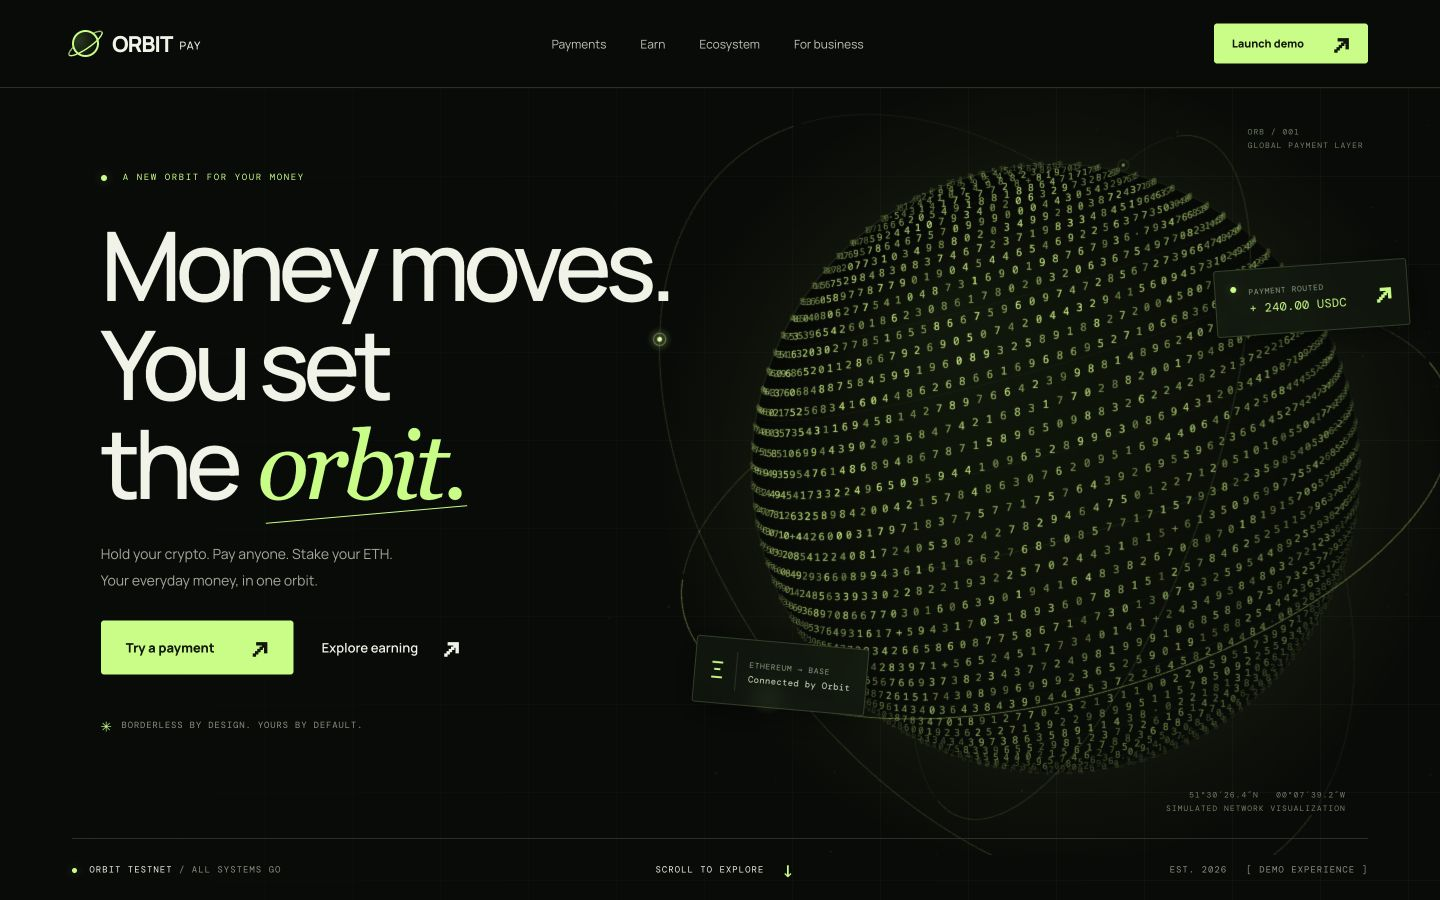
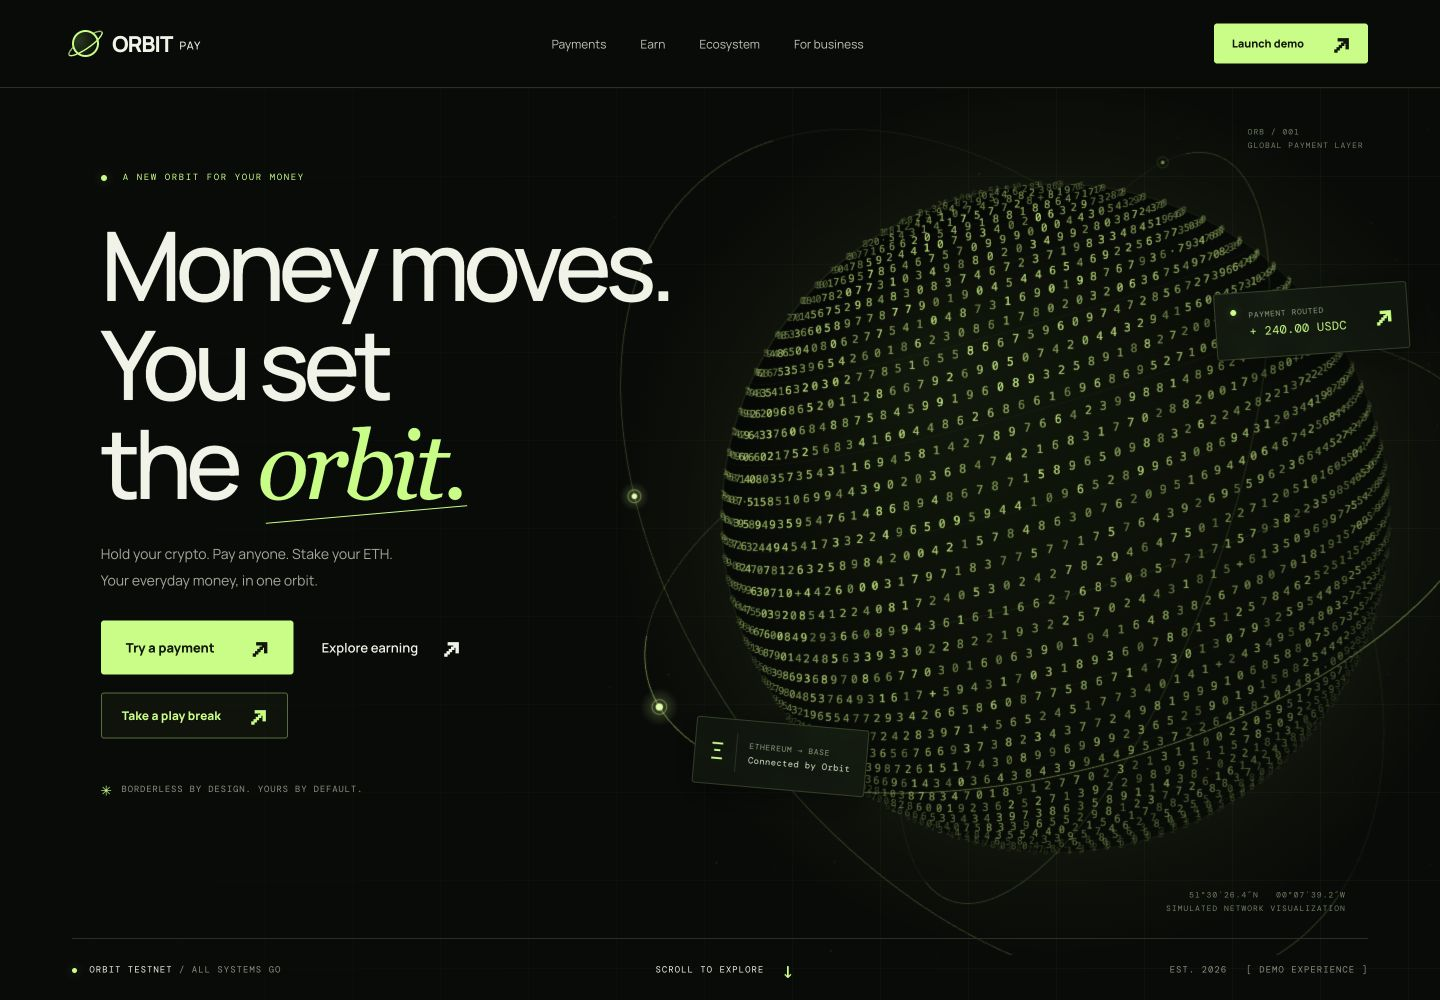
Expose Arcade in hero with pixel arrow and glyph hover response

diff --git a/dist/index.html b/dist/index.html
@@ -15,7 +15,7 @@
 <main id="main">
 <section class="hero" aria-labelledby="hero-title">
   <div class="hero-grid" aria-hidden="true"></div>
-  <div class="hero-copy"><div class="eyebrow"><span class="status-dot"></span> A NEW ORBIT FOR YOUR MONEY</div><h1 id="hero-title">Money moves.<br>You set<br> the <span class="serif-word">orbit.</span></h1><p>Hold your crypto. Pay anyone. Stake your ETH.<br>Your everyday money, in one orbit.</p><div class="hero-actions"><a class="button" href="#product">Try a payment <span>↗</span></a><a class="text-link" href="#earn">Explore earning <span>↗</span></a></div><div class="hero-note"><span class="tiny-cross">✳</span> BORDERLESS BY DESIGN. YOURS BY DEFAULT.</div></div>
+  <div class="hero-copy"><div class="eyebrow"><span class="status-dot"></span> A NEW ORBIT FOR YOUR MONEY</div><h1 id="hero-title">Money moves.<br>You set<br> the <span class="serif-word">orbit.</span></h1><p>Hold your crypto. Pay anyone. Stake your ETH.<br>Your everyday money, in one orbit.</p><div class="hero-actions"><a class="button" href="#product">Try a payment <span>↗</span></a><a class="text-link" href="#earn">Explore earning <span>↗</span></a></div><button class="button hero-play" id="hero-play" type="button" aria-haspopup="dialog" aria-controls="arcade-dialog">Take a play break <span aria-hidden="true">↗</span></button><div class="hero-note"><span class="tiny-cross">✳</span> BORDERLESS BY DESIGN. YOURS BY DEFAULT.</div></div>
   <div class="planet-stage"><div class="planet-fallback" aria-hidden="true"></div><canvas id="orbit-planet" role="img" aria-label="A rotating green digital planet with payment satellites"></canvas><span class="planet-coordinate top">ORB / 001<br>GLOBAL PAYMENT LAYER</span><div class="planet-tag tag-a"><span class="status-dot"></span><span>PAYMENT ROUTED<br><strong>+ 240.00 USDC</strong></span><span class="tag-arrow">↗</span></div><div class="planet-tag tag-b"><span class="chain-symbol">Ξ</span><span>ETHEREUM <span class="muted">→</span> BASE<br><strong>Connected by Orbit</strong></span></div><span class="planet-coordinate bottom">51°30′26.4″N &nbsp; 00°07′39.2″W<br>SIMULATED NETWORK VISUALIZATION</span></div>
   <div class="hero-bottom"><span><span class="status-dot"></span> ORBIT TESTNET <span class="muted">/ ALL SYSTEMS GO</span></span><a href="#networks">SCROLL TO EXPLORE <span class="scroll-arrow">↓</span></a><span class="hero-edition">EST. 2026 &nbsp; [ DEMO EXPERIENCE ]</span></div>
 </section>

diff --git a/dist/main.js b/dist/main.js
@@ -127,9 +127,10 @@ $('#copy-code').addEventListener('click',async()=>{if(await copyText(codeSamples
 let arcadeLoaded=false;let arcadeController; 
 async function loadArcade(){if(arcadeLoaded)return;arcadeLoaded=true;try{const {initArcade}=await import('./arcade.js');arcadeController=initArcade($('#arcade-root'));}catch(error){arcadeLoaded=false;$('#arcade-root').innerHTML='<div class="arcade-loading mono"><button id="retry-arcade" class="button">Reload arcade ↻</button></div>';$('#retry-arcade').addEventListener('click',loadArcade);}}
 const arcadeDialog=$('#arcade-dialog');
-$('#open-arcade').addEventListener('click',async()=>{arcadeDialog.showModal();await loadArcade();});
+let arcadeOpener = $('#open-arcade');
+for (const button of [$('#hero-play'), $('#open-arcade')]) button.addEventListener('click',async()=>{arcadeOpener=button;arcadeDialog.showModal();await loadArcade();});
 $('#close-arcade').addEventListener('click',()=>arcadeDialog.close());
-arcadeDialog.addEventListener('close',()=>{arcadeController?.pause();$('#open-arcade').focus({preventScroll:true});});
+arcadeDialog.addEventListener('close',()=>{arcadeController?.pause();arcadeOpener.focus({preventScroll:true});});
 arcadeDialog.addEventListener('click',event=>{if(event.target===arcadeDialog){const b=arcadeDialog.getBoundingClientRect();if(event.clientX<b.left||event.clientX>b.right||event.clientY<b.top||event.clientY>b.bottom)arcadeDialog.close();}});
 
 function pixelArrows(root=document){

diff --git a/dist/cursor-trail.js b/dist/cursor-trail.js
@@ -6,7 +6,7 @@ const PANELS = '.payment-terminal,.eco-preview,.product-preview,.code-terminal,.
 const FOREGROUND = `.network-ticker-viewport,.eco-yield,.earn-rate-value,header,footer,dialog,${CONTROLS},.earn-term-option,.earn-confirmation-mark,img,video,iframe,[data-trail-obstacle],[data-no-trail],.planet-tag,.orbit-mark,.status-dot,.terminal-top i,.route-line,.mini-flow>i,.eco-asset-icon,.earn-rate-symbol`;
 const SOLID = `${FOREGROUND},${PANELS}`;
 const IGNORE_TEXT = `${FOREGROUND},script,style,template,svg,canvas,.sr-only`;
-const BURST_TARGETS = '.eco-cta,.earn-submit,#send-payment,.hero-actions .button';
+const BURST_TARGETS = '#hero-play,.eco-cta,.earn-submit,#send-payment,.hero-actions .button';
 const SVG_PAINT = 'svg path,svg circle,svg ellipse,svg rect,svg line,svg polyline,svg polygon,svg text,svg image,svg use';
 const GLYPHS = '0123456789abcdef';
 const LIFE = 2300;

diff --git a/dist/refinements.css b/dist/refinements.css
@@ -44,3 +44,8 @@
 .final-lockup{grid-template-columns:minmax(0,1fr) clamp(190px,33vw,460px)}
 @media(max-width:700px){.final-lockup{grid-template-columns:minmax(0,1fr) clamp(155px,35vw,250px)}}
 @media(max-width:440px){.final-lockup{grid-template-columns:1fr}.final-section .final-emblem{width:min(76vw,290px)}}
+
+.hero-play{display:inline-flex;align-items:center;justify-content:space-between;gap:28px;margin-top:18px;padding:0 20px;min-height:46px;background:#bcff7508;border:1px solid #536e3d;color:var(--lime);font-size:12px;pointer-events:auto}
+.hero-play:hover{background:#bcff7518;border-color:var(--lime)}
+.hero-play:hover .pixel-arrow{transform:translate(3px,-3px)}
+@media(max-width:760px){.hero .planet-stage{top:clamp(535px,85vw,630px)}.hero{min-height:calc(clamp(535px,85vw,630px) + 665px)}.hero-play{min-height:44px;margin-top:16px;font-size:11px}.hero-note{margin-top:20px}}

diff --git a/README.md b/README.md
@@ -264,3 +264,5 @@ npm test
 Шлейф сохраняет независимое время рождения каждого символа: начальные 20% его жизни сохраняется яркость, затем начинается плавное затухание до полного исчезновения на 2,3 секунде. Потеря фокуса окна не удаляет весь след; скрытие вкладки приостанавливает отрисовку, а после возвращения учитывается фактически прошедшее время. Орбиты планеты рисуются непрерывно с перекрытием задних частей сферой.
 
 Финальный знак: радиус шара увеличен до 39 единиц, радиусы кольца — до 67 × 31,5; наклон кольца уменьшен до −15°, наклон сетки шара — до 12°. Кольцо экосистемы использует непрерывные замкнутые строки символов и две дополняющие маски вместо стыкующихся полуколец. Favicon также рисует заднюю орбиту под непрозрачным шаром. След полностью исчезает через 2,3 секунды после прохождения указателя.
+
+На первом экране доступна кнопка **Take a play break**: пиксельная стрелка и короткий разлёт символов при наведении, прямое открытие Snake / Tetris. После закрытия игрового окна фокус возвращается к той кнопке, из которой оно было открыто.
